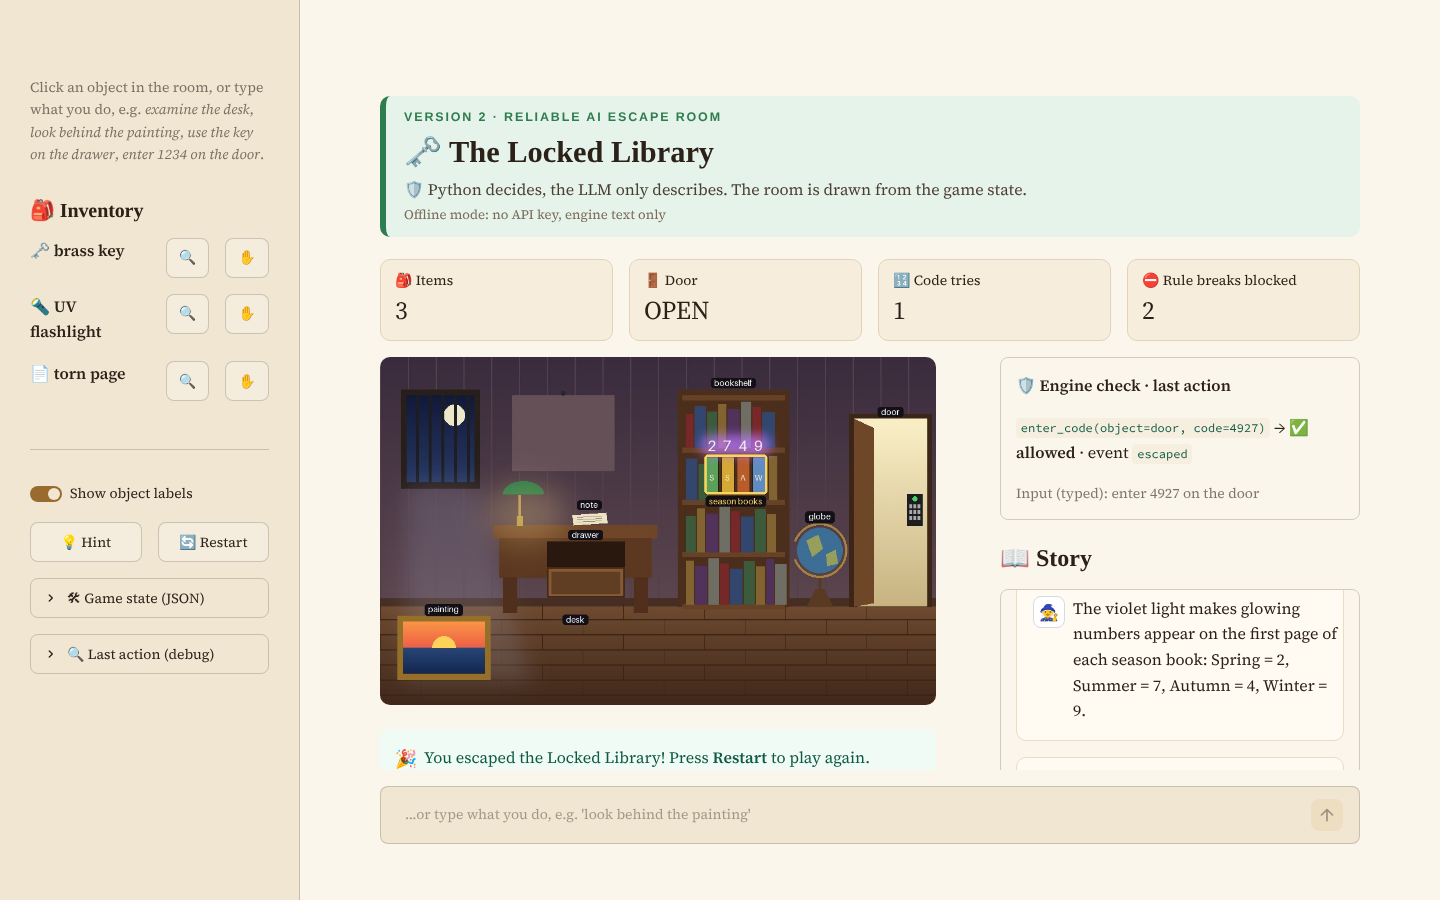
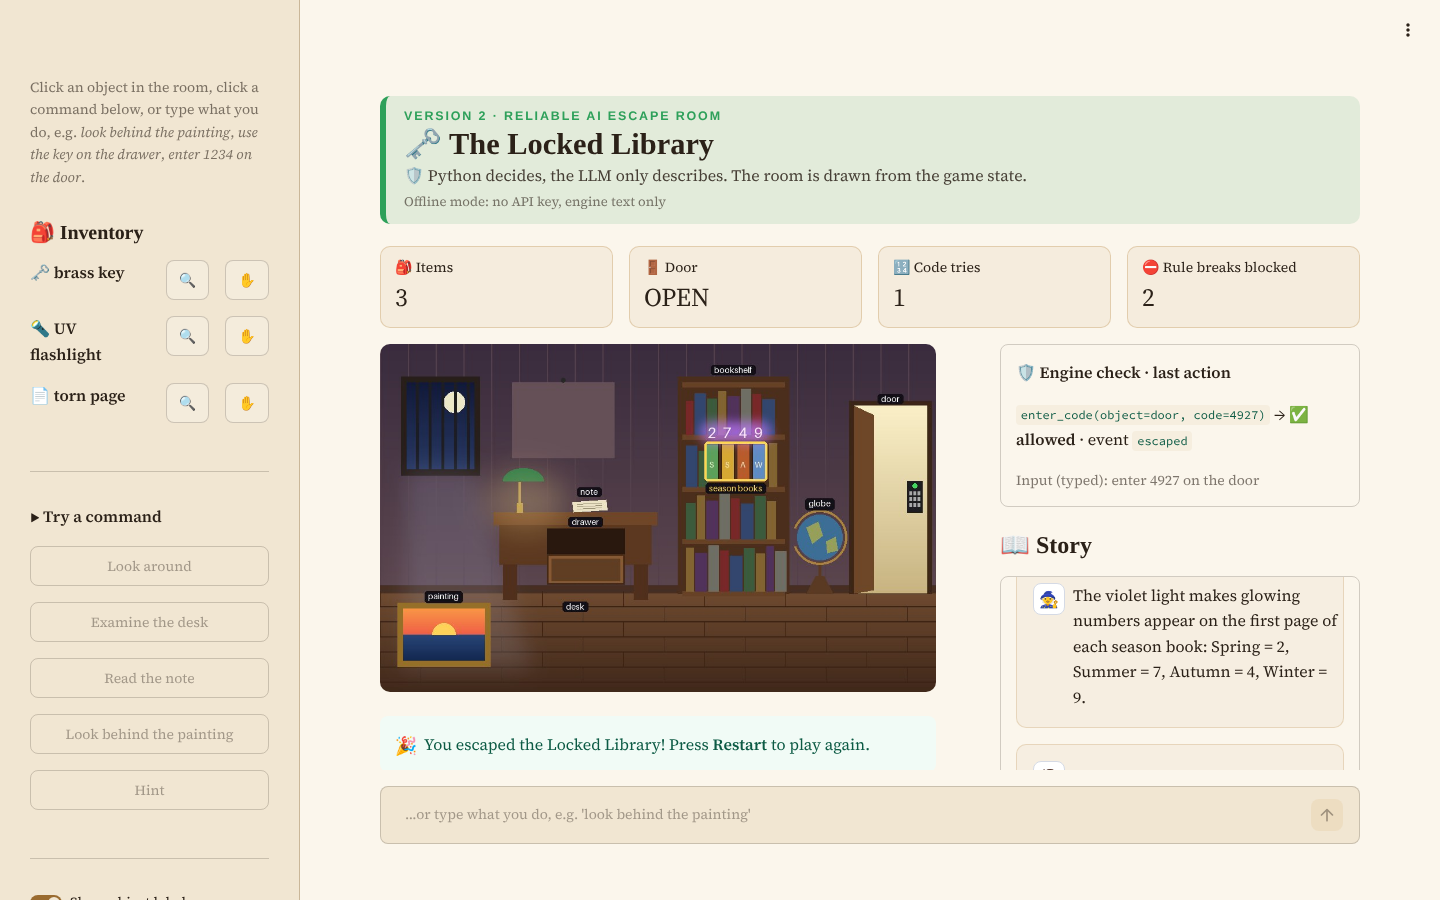
Light and dark theme, clickable keypad and example commands in V1 and V2
Claude-Session: https://claude.ai/code/session_01JHE4nGXCUCeGcZParoQ2jR

diff --git a/ui_style.py b/ui_style.py
@@ -1,9 +1,13 @@
 """
-Shared look for Version 1 and Version 2 (presentation only, no game rules).
+Shared look and shared interactive widgets for Version 1 and Version 2
+(presentation only, no game rules).
 
-Both apps use the same theme (.streamlit/config.toml), the same header, the
-same status row and the same panels, so the only differences on screen are
-the real ones: V1 has no game state and no validation, V2 has both.
+* Works in the light AND the dark theme (.streamlit/config.toml defines both):
+  custom colours are semi-transparent tints of the accent colours and text
+  colours are inherited, so nothing is hard-coded to a light background.
+* Both versions use the same header, status row, story panel, on-screen
+  keypad and clickable example commands, so the only differences on screen
+  are the real ones: V1 has no game state and no validation, V2 has both.
 """
 
 from __future__ import annotations
@@ -12,19 +16,33 @@ import html
 
 import streamlit as st
 
-ACCENT = {1: ("#c0661c", "#fbeedd"), 2: ("#2e7d4f", "#e6f3ea")}   # V1 orange, V2 green
+ACCENT = {1: "192, 102, 28", 2: "46, 160, 90"}      # V1 orange, V2 green (RGB for rgba())
+BRASS = "176, 122, 52"
 
-CSS = """
+CSS = f"""
 <style>
-h1, h2, h3, h4 {font-family: Georgia, 'Times New Roman', serif !important;}
-section[data-testid="stSidebar"] {border-right: 1px solid #e2d3b8;}
-div[data-testid="stMetric"] {background: #f6eddc; border: 1px solid #e2d3b8; border-radius: 10px;
-    padding: 8px 14px;}
-div[data-testid="stMetricLabel"] p {font-size: .85rem;}
-div[data-testid="stMetricValue"] {font-size: 1.6rem;}
-.stButton > button {border-radius: 8px;}
-div[data-testid="stChatMessage"] {background: #fffaf2; border: 1px solid #eadcc3; border-radius: 10px;}
-iframe {border-radius: 10px;}
+h1, h2, h3, h4 {{font-family: Georgia, 'Times New Roman', serif !important;}}
+section[data-testid="stSidebar"] {{border-right: 1px solid rgba({BRASS}, .25);}}
+div[data-testid="stMetric"] {{background: rgba({BRASS}, .08); border: 1px solid rgba({BRASS}, .28);
+    border-radius: 10px; padding: 8px 14px; transition: transform .15s, box-shadow .15s;}}
+div[data-testid="stMetric"]:hover {{transform: translateY(-2px); box-shadow: 0 4px 14px rgba({BRASS}, .25);}}
+div[data-testid="stMetricLabel"] p {{font-size: .85rem;}}
+div[data-testid="stMetricValue"] {{font-size: 1.6rem;}}
+.stButton > button {{border-radius: 8px; transition: transform .1s, box-shadow .15s;}}
+.stButton > button:hover {{transform: translateY(-1px); box-shadow: 0 3px 10px rgba({BRASS}, .3);}}
+.stButton > button:active {{transform: translateY(1px);}}
+div[data-testid="stChatMessage"] {{background: rgba({BRASS}, .06); border: 1px solid rgba({BRASS}, .22);
+    border-radius: 10px;}}
+iframe {{border-radius: 10px;}}
+.ll-header {{border-left: 6px solid rgb(var(--acc)); background: rgba(var(--acc), .12); border-radius: 10px;
+    padding: 12px 18px; margin-bottom: 6px;}}
+.ll-tag {{font: 700 .78rem/1.4 sans-serif; letter-spacing: .15em; color: rgb(var(--acc));}}
+.ll-title {{font: 700 1.9rem/1.25 Georgia, serif;}}
+.ll-sub {{opacity: .85;}}
+.ll-mode {{opacity: .6; font-size: .82rem; margin-top: 2px;}}
+.ll-display {{font: 700 1.6rem/1 'Courier New', monospace; letter-spacing: .5em; text-align: center;
+    padding: 10px 0 10px .5em; border-radius: 8px; background: rgba(0, 0, 0, .78); color: #7dff9a;
+    border: 2px solid rgba({BRASS}, .5); margin-bottom: 6px;}}
 </style>
 """
 
@@ -33,16 +51,21 @@ def apply_style() -> None:
     st.html(CSS)
 
 
+def is_dark() -> bool:
+    try:
+        return st.context.theme.type == "dark"
+    except Exception:
+        return False
+
+
 def header(version: int, subtitle: str, mode: str) -> None:
     """The same banner in both versions; only colour and wording differ."""
-    colour, bg = ACCENT[version]
     name = "INTERACTIVE AI ESCAPE ROOM" if version == 1 else "RELIABLE AI ESCAPE ROOM"
-    st.html(f"""<div style="border-left:6px solid {colour};background:{bg};border-radius:10px;padding:12px 18px;
-      margin-bottom:6px"><div style="font-size:.78rem;letter-spacing:.15em;color:{colour};font-weight:700;
-      font-family:sans-serif">VERSION {version} · {name}</div>
-      <div style="font-size:1.9rem;font-weight:700;font-family:Georgia,serif">🗝 The Locked Library</div>
-      <div style="color:#4a3f33">{html.escape(subtitle)}</div>
-      <div style="color:#7a6a58;font-size:.82rem;margin-top:2px">{html.escape(mode)}</div></div>""")
+    st.html(f"""<div class="ll-header" style="--acc:{ACCENT[version]}">
+      <div class="ll-tag">VERSION {version} · {name}</div>
+      <div class="ll-title">🗝 The Locked Library</div>
+      <div class="ll-sub">{html.escape(subtitle)}</div>
+      <div class="ll-mode">{html.escape(mode)}</div></div>""")
 
 
 def status_row(items, door, code_tries, rule_breaks, notes: dict | None = None) -> None:
@@ -62,7 +85,39 @@ def story(messages: list[dict], height: int = 400) -> None:
                 st.markdown(msg["content"])
 
 
-HOW_TO_PLAY = ("Click an object in the room, or type what you do, e.g. *examine the desk*, *look behind the "
+def keypad(on_enter, disabled: bool = False) -> None:
+    """Clickable door keypad (0-9, delete, enter). Calls on_enter(code) with the typed digits."""
+    code = st.session_state.setdefault("pad_code", "")
+    st.html(f'<div class="ll-display">{html.escape(code.ljust(4, "_"))}</div>')
+
+    def press(key):
+        cur = st.session_state.pad_code
+        if key == "⌫":
+            st.session_state.pad_code = cur[:-1]
+        elif key == "✔":
+            st.session_state.pad_code = ""
+            on_enter(cur)
+        elif len(cur) < 4:
+            st.session_state.pad_code = cur + key
+
+    for row in (["1", "2", "3"], ["4", "5", "6"], ["7", "8", "9"], ["⌫", "0", "✔"]):
+        cols = st.columns(3)
+        for col, key in zip(cols, row):
+            col.button(key, key=f"pad_{key}", width="stretch", on_click=press, args=(key,),
+                       disabled=disabled or (key == "✔" and not code),
+                       type="primary" if key == "✔" else "secondary")
+
+
+def quick_commands(commands: list[str], on_pick, disabled: bool = False) -> None:
+    """Clickable example commands (sidebar). Each one is sent as if the player typed it."""
+    st.markdown("**▶ Try a command**")
+    for cmd in commands:
+        st.button(cmd, key=f"try_{cmd}", width="stretch", on_click=on_pick, args=(cmd,), disabled=disabled)
+
+
+THEME_TIP = "🌗 Light or dark: open the ⋮ menu (top right) → Settings → Theme."
+HOW_TO_PLAY = ("Click an object in the room, click a command below, or type what you do, e.g. *look behind the "
                "painting*, *use the key on the drawer*, *enter 1234 on the door*.")
+EXAMPLES = ["Look around", "Examine the desk", "Read the note", "Look behind the painting", "Hint"]
 CHAT_PLACEHOLDER = "...or type what you do, e.g. 'look behind the painting'"
 ESCAPED = "🎉 You escaped the Locked Library! Press **Restart** to play again."

diff --git a/v2/app.py b/v2/app.py
@@ -61,6 +61,7 @@ def reset_game():
     st.session_state.selected = None
     st.session_state.held = None
     st.session_state.last_click = None
+    st.session_state.pad_code = ""
 
 
 def run_action(action: Action, player_text: str, source: str = "click"):
@@ -83,7 +84,7 @@ def run_action(action: Action, player_text: str, source: str = "click"):
 
 
 def run_text(text: str):
-    """Typed natural-language command: same pipeline as Version 2."""
+    """Typed (or example) command: parsed first, then validated by the same engine."""
     client = get_client()
     action = RuleParser(CONFIG).parse(text)
     if action.verb == "unknown" and not action.raw_noun and client is not None:
@@ -91,10 +92,8 @@ def run_text(text: str):
     run_action(action, text, source="typed")
 
 
-def enter_code():
-    code = st.session_state.get("keypad", "").strip()
-    st.session_state.keypad = ""
-    run_action(Action("enter_code", "door", code=code), f"🔢 Enter {code or '(nothing)'} on the keypad")
+def enter_code(code: str):
+    run_action(Action("enter_code", "door", code=code), f"🔢 Enter {code} on the keypad")
 
 
 def hold(item):
@@ -137,6 +136,8 @@ with st.sidebar:
         st.info(f"Holding the **{NAMES[st.session_state.held]}**. Click an object in the room to use it there.")
 
     st.divider()
+    ui.quick_commands(ui.EXAMPLES, on_pick=run_text, disabled=state["escaped"])
+    st.divider()
     show_labels = st.toggle("Show object labels", value=True)
     c1, c2 = st.columns(2)
     c1.button("💡 Hint", width="stretch", on_click=run_action, args=(Action("hint"), "💡 Hint please"))
@@ -147,6 +148,7 @@ with st.sidebar:
         st.json({k: v for k, v in state.items() if k != "history"})
     with st.expander("🔍 Last action (debug)"):
         st.json(st.session_state.debug[-1] if st.session_state.debug else {})
+    st.caption(ui.THEME_TIP)
 
 # ----- main area: room + actions | story -----------------------------------
 room_col, story_col = st.columns([1.5, 1], gap="large")
@@ -192,10 +194,9 @@ with room_col:
             col.button(label, key=f"act_{sel}_{label}", width="stretch",
                        on_click=run_action, args=(action, text))
         if sel == "door":
-            k1, k2 = st.columns([3, 1])
-            k1.text_input("Keypad", key="keypad", max_chars=4, placeholder="4-digit code",
-                          label_visibility="collapsed")
-            k2.button("🔢 Enter", width="stretch", on_click=enter_code)
+            _, pad, _ = st.columns([1, 1.4, 1])
+            with pad:
+                ui.keypad(on_enter=enter_code, disabled=state["escaped"])
 
 with story_col:
     last = st.session_state.debug[-1] if st.session_state.debug else None

diff --git a/v1/app.py b/v1/app.py
@@ -68,6 +68,7 @@ def reset_game():
     st.session_state.escaped = False
     st.session_state.selected = None
     st.session_state.last_click = None
+    st.session_state.pad_code = ""
 
 
 def send(text: str):
@@ -99,6 +100,8 @@ with st.sidebar:
     st.header("🎒 Inventory")
     st.caption("Not tracked in Version 1. Only Gemini \"remembers\" what you carry, in the chat.")
     st.divider()
+    ui.quick_commands(ui.EXAMPLES, on_pick=send, disabled=client is None or st.session_state.escaped)
+    st.divider()
     show_labels = st.toggle("Show object labels", value=True)
     c1, c2 = st.columns(2)
     hint = c1.button("💡 Hint", width="stretch", disabled=client is None)
@@ -107,6 +110,7 @@ with st.sidebar:
         st.rerun()
     st.warning("Version 1: Gemini is the whole game. No inventory, no state, no validation, and the room picture "
             "never changes. Version 2 fixes that.")
+    st.caption(ui.THEME_TIP)
 
 if client is None:
     ui.header(1, "🤖 The LLM is the whole game: story, rules, solutions and progress live only in the chat.",
@@ -158,13 +162,10 @@ with room_col:
                     send(text)
                 st.rerun()
         if sel == "door":
-            k1, k2 = st.columns([3, 1])
-            code = k1.text_input("Keypad", key="keypad", max_chars=4, placeholder="4-digit code",
-                                 label_visibility="collapsed")
-            if k2.button("🔢 Enter", width="stretch") and code.strip():
-                with st.spinner("The Game Master is thinking..."):
-                    send(f"I enter {code.strip()} on the door keypad.")
-                st.rerun()
+            _, pad, _ = st.columns([1, 1.4, 1])
+            with pad:
+                ui.keypad(on_enter=lambda code: send(f"I enter {code} on the door keypad."),
+                          disabled=st.session_state.escaped)
 
 with story_col:
     last = st.session_state.get("last_turn")

diff --git a/README.md b/README.md
@@ -51,7 +51,7 @@ brass key, UV flashlight, torn page.
 * **Python 3.10+**
 * **Streamlit** for the web interface
 * **Pillow** to draw the 2D room (`room_renderer.py`, shared by V1 and V2) and **streamlit-image-coordinates** to detect clicks on it
-* One shared look for both versions: `.streamlit/config.toml` (library theme) + `ui_style.py` (header, status row, story panel)
+* One shared look for both versions, in **light and dark mode**: `.streamlit/config.toml` defines a light and a dark library palette (switch via ⋮ → Settings → Theme, or it follows the system), and `ui_style.py` only uses colours that work on both
 * **Google Gemini API** (`google-genai` SDK, free tier, default model `gemini-2.5-flash`; if it is unavailable, `gemini_model.py` picks the newest available Flash model)
 * **JSON** for the game configuration
 * **pytest** for automated tests
@@ -84,7 +84,7 @@ pytest -v                               # automated tests, no key needed
 python scripts/run_test_cases.py        # V1 vs V2 transcripts -> docs/test_results.md
 ```
 
-**How to play:** click an object in the room and choose an action, or type
+**How to play:** click an object in the room and choose an action, click one of the *Try a command* buttons in the sidebar, use the clickable door keypad, or type
 things like *examine the desk*, *look behind the painting*, *take the key*,
 *use the key on the drawer*, *shine the flashlight on the books*, *enter 1234
 on the door*. In V2 you can also **hold** an inventory item and click where to
@@ -197,6 +197,12 @@ screenshot used scripted stand-in replies, because V1 cannot run without the LLM
 | **Escaped** | |
 | ![escaped](docs/screenshots/v2_escaped.png) | |
 
+### Dark mode
+
+| V1 | V2 with the clickable door keypad |
+|---|---|
+| ![v1 dark](docs/screenshots/v1_dark.png) | ![v2 dark](docs/screenshots/v2_dark_keypad.png) |
+
 ## 9. Project structure
 
 ```
@@ -211,8 +217,8 @@ AI-Escape-Room/
 │   ├── action_parser.py    # text -> Action (rules + optional LLM)
 │   └── narrator.py         # Gemini narration + output guard
 ├── room_renderer.py        # draws the room (Pillow) + click hit-testing, used by V1 and V2
-├── ui_style.py             # shared look: header, status row, story panel
-├── .streamlit/config.toml  # shared library theme
+├── ui_style.py             # shared look + widgets: header, status row, story, keypad, example commands
+├── .streamlit/config.toml  # shared library theme (light + dark)
 ├── gemini_model.py         # picks an available Gemini model
 ├── tests/
 │   ├── test_game.py        # 20 tests: V2 engine, parser, guard, model selection

diff --git a/CHANGELOG.md b/CHANGELOG.md
@@ -1,5 +1,10 @@
 # Changelog
 
+## Light/dark theme and more interaction
+- `.streamlit/config.toml` defines a light and a dark library palette; custom styles use theme-independent tints, so both versions look the same in either mode.
+- Clickable door keypad (digits, delete, enter) in V1 and V2 instead of a text box.
+- "Try a command" buttons in the sidebar of both versions; hover/press feedback on buttons and status cards.
+
 ## UI polish (final)
 - Puzzle checklist and puzzle counter removed (they spoiled the solutions); progress is still tracked in the V2 JSON state.
 - One shared library theme for V1 and V2 (`.streamlit/config.toml`, `ui_style.py`): same header, status row, sidebar order, buttons (Hint, Restart), labels, story panel and chat placeholder.

diff --git a/docs/report.md b/docs/report.md
@@ -105,7 +105,7 @@ storytelling**. Every message goes through a pipeline:
    opens, collected items disappear, numbers glow under UV light, the door
    opens), so the picture can never disagree with the engine. Clicking an
    object selects it, and context buttons (Examine, Take, Look behind, Open,
-   Spin, a keypad, *Use held item here*) send structured actions straight to
+   Spin, a clickable keypad, *Use held item here*) send structured actions straight to
    the engine; typed commands still go through the parser. The sidebar shows
    the inventory (an item can be held, then used by clicking), the door status, turn and attempt
    counters, the raw JSON state and a debug view of the last parsed action.
